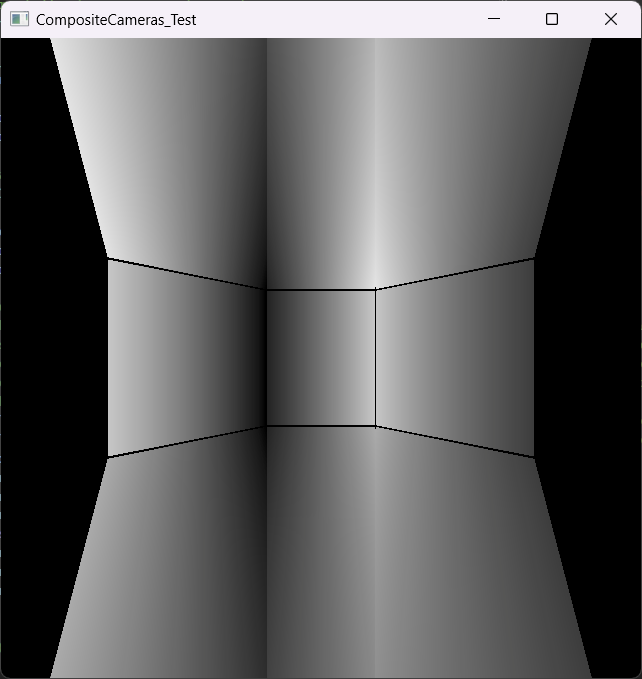
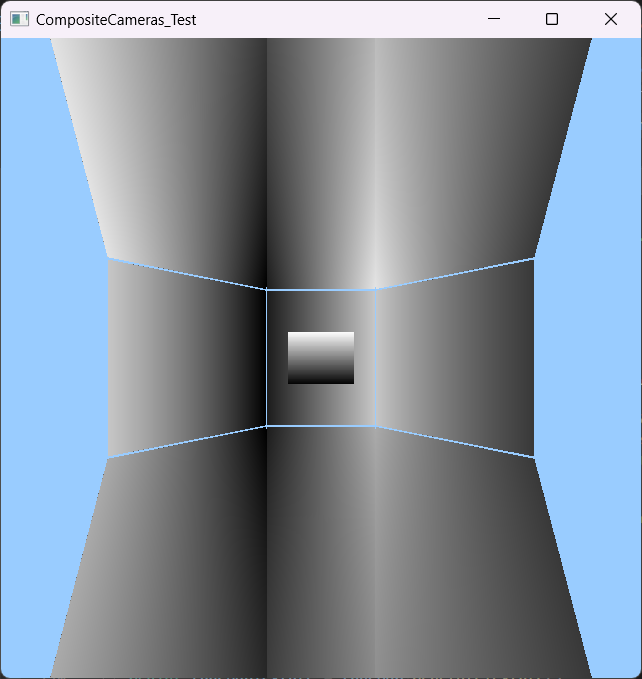
Version 2.15.0 reads optional offset and gain color adjustment from config file and applies them.

diff --git a/Composite.cpp b/Composite.cpp
@@ -643,10 +643,13 @@ R"(#version 330 core
    in vec2 TexCoord;
    uniform sampler2D imageTexture;
    uniform sampler1D toneMapTexture;
+   uniform float offset;
+   uniform float gain;
    void main()
    {
       // Look up the intensity from the image texture and then use the tone map to get the color.
-      float intensity = texture(imageTexture, TexCoord).r;
+      // Apply offset and gain.  The texture sampler should be set to GL_CLAMP_TO_EDGE.
+      float intensity = gain * (offset + texture(imageTexture, TexCoord).r);
       FragColor = texture(toneMapTexture, intensity);
    })";
 
@@ -667,6 +670,8 @@ CompositeCameras::CompositeCameras(std::vector<CameraRenderInfo>& cameraRenderIn
   , m_fVelocityUniformID(0)
   , m_fAxisUniformID(0)
   , m_fAngleUniformID(0)
+  , m_offsetUniformID(0)
+  , m_gainUniformID(0)
   , m_imageTextureId(0)
   , m_toneMapTextureId(0)
 {
@@ -715,16 +720,21 @@ bool CompositeCameras::SetupRendering()
   m_fVelocityUniformID = glGetUniformLocation(m_programId, "fVelocity");
   m_fAxisUniformID = glGetUniformLocation(m_programId, "fAxis");
   m_fAngleUniformID = glGetUniformLocation(m_programId, "fAngle");
+  m_offsetUniformID = glGetUniformLocation(m_programId, "offset");
+  m_gainUniformID = glGetUniformLocation(m_programId, "gain");
   m_imageTextureId = glGetUniformLocation(m_programId, "imageTexture");
   m_toneMapTextureId = glGetUniformLocation(m_programId, "toneMapTexture");
   if (m_viewProjectionUniformId == -1 || m_poseAdjustUniformId == -1 || m_fVelocityUniformID == -1 ||
-    m_fAxisUniformID == -1 || m_fAngleUniformID == -1 || m_imageTextureId == -1 || m_toneMapTextureId == -1) {
+    m_fAxisUniformID == -1 || m_fAngleUniformID == -1 || m_imageTextureId == -1 || m_toneMapTextureId == -1 ||
+    m_offsetUniformID == -1 || m_gainUniformID == -1) {
     std::cerr << "CompositeCameras::SetupRendering(): Failed to get uniform IDs" << std::endl;
     std::cerr << "  viewProjection: " << m_viewProjectionUniformId << std::endl;
     std::cerr << "  poseAdjust: " << m_poseAdjustUniformId << std::endl;
     std::cerr << "  fVelocity: " << m_fVelocityUniformID << std::endl;
     std::cerr << "  fAxis: " << m_fAxisUniformID << std::endl;
     std::cerr << "  fAngle: " << m_fAngleUniformID << std::endl;
+    std::cerr << "  offset: " << m_offsetUniformID << std::endl;
+    std::cerr << "  gain: " << m_gainUniformID << std::endl;
     std::cerr << "  imageTexture: " << m_imageTextureId << std::endl;
     std::cerr << "  toneMapTexture: " << m_toneMapTextureId << std::endl;
     return false;
@@ -1092,6 +1102,10 @@ void CompositeCameras::RenderView(asdp::Time scanOutTime, const float* viewProje
     glUniform3fv(m_fVelocityUniformID, 1, fVelocity.data());
     glUniform3fv(m_fAxisUniformID, 1, fAxis.data());
     glUniform1f(m_fAngleUniformID, fAngle);
+    float offset, gain;
+    m_cameraRenderInfos[c].GetColorOffsetGain(offset, gain);
+    glUniform1f(m_offsetUniformID, offset);
+    glUniform1f(m_gainUniformID, gain);
 
     // Draw the camera using its vertex buffer objects.
     glBindBuffer(GL_ARRAY_BUFFER, m_cameraBufferInfos[cameraID].vertexBufferObject);

diff --git a/tests_cpp/CompositeCameras_Test.cpp b/tests_cpp/CompositeCameras_Test.cpp
@@ -145,6 +145,26 @@ int main()
     }
   }
 
+  // Make a tenth camera that will be used to test the color offset and gain parameters.
+  // It will be smaller and drawn in the center in front of the other cameras (its position
+  // will be negative Y).
+  {
+    std::array<double, 3> position = { 0.0, -0.5, 0.0 };
+    std::array<double, 3> orientation = { 0.0, 0.0, 0.0 };
+    std::array<double, 2> fieldOfView = { hFOV/2, vFOV/2 };
+    std::shared_ptr<asdp::render::ImageData> image = std::make_shared<asdp::render::ImageData>();
+    // Color values run from half of the image value to 3/4 of the image value.
+    image->texture = MakeTexture(width, height, 65535/2, 65535*3/4);
+    std::shared_ptr<asdp::render::ImageQueue> iq = std::make_shared<asdp::render::ImageQueue>();
+    // We must insert two images because the renderer will grab the newest two images.
+    iq->InsertImage(image);
+    iq->InsertImage(image);
+    asdp::render::CameraRenderInfo camera(9, position, orientation, std::array<uint16_t, 2>(), fieldOfView, nullptr, iq);
+    // Color values run from half of the image value to 3/4 of the image value.
+    camera.SetColorOffsetGain(-0.5f, 4);
+    cameras.push_back(camera);
+  }
+
   // Use the default tone-map texture for the cameras.
   asdp::render::ToneMap toneMap;
   GLuint toneMapTexture = toneMap.GenerateTexture();
@@ -159,6 +179,7 @@ int main()
   std::cout << "second brighter on the right." << std::endl;
   std::cout << "Above should be brighter extensions and below should be darker ones." << std::endl;
   std::cout << "The extensions meet at dark and then bright boundaries from left to right." << std::endl;
+  std::cout << "A smaller box should be in the center of the view, black at bottom to white at top." << std::endl;
   std::cout << "" << std::endl;
   std::cout << "Close the window to exit." << std::endl;
   auto start = std::chrono::steady_clock::now();

diff --git a/Composite.h b/Composite.h
@@ -317,6 +317,9 @@ namespace asdp {
       GLuint m_imageTextureId;
       GLuint m_toneMapTextureId;
 
+      GLuint m_offsetUniformID;      ///< The Uniform ID of the color offset.
+      GLuint m_gainUniformID;        ///< The Uniform ID of the color gain.
+
       /// @brief Vector of Image objects to use during a frame rendering, one per camera.
       std::vector<std::shared_ptr<asdp::render::ImageData>> m_images;
 

diff --git a/ASDP_Render_Module.cpp b/ASDP_Render_Module.cpp
@@ -48,7 +48,7 @@ using namespace asdp;
 using namespace asdp::render;
 using json = nlohmann::json;
 
-static std::string VERSION = "2.14.0";
+static std::string VERSION = "2.15.0";
 
 /// @brief The path to the configuration file. Defined in the CMakeLists file.
 std::filesystem::path g_dirPath = CONFIG_FILE_PATH;

diff --git a/README.md b/README.md
@@ -189,7 +189,7 @@ For radial distortion, the parameters are as follows:
 The **color** field is an optional object that can specify the global offset and gain to apply to the image.  The
 default offset is 0.0 and the default gain is 1.0.  The offset is added and the result multiplied by the
 gain.  This can be used to adjust the brightness and contrast of each camera so that they share the
-same color space, which is where the tone map is applied.
+same color space, which is where the tone map is applied.  A negative offset will make the image darker.
 
 ## Utilities
 
@@ -264,6 +264,7 @@ You should see a row of three distorted dark boxes horizontally across the cente
 the first and third brighter on the left and the second brighter on the right.
 Above should be brighter extensions and below should be darker ones.
 The extensions meet at dark and then bright boundaries from left to right.
+There is a smaller camera in the center of the view that is black on the bottom and white on the top.
 The expected image is shown below.
 
 ![Test of the CompositeCameras class](CompositeCameras_Test.png "Test of the CompositeCameras class")
